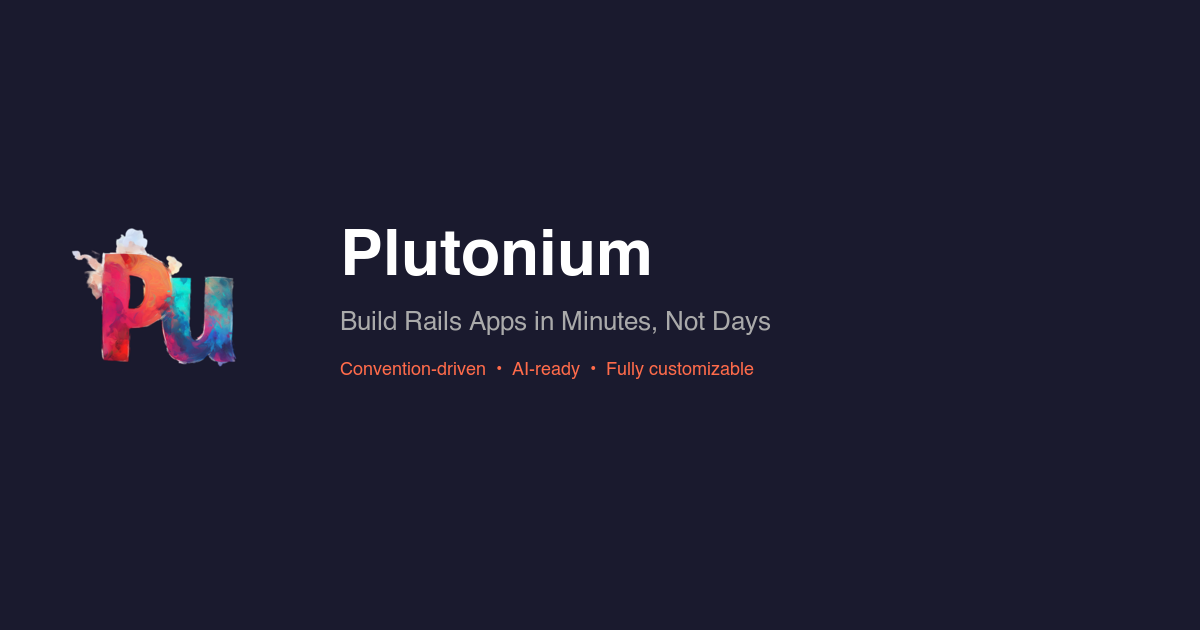
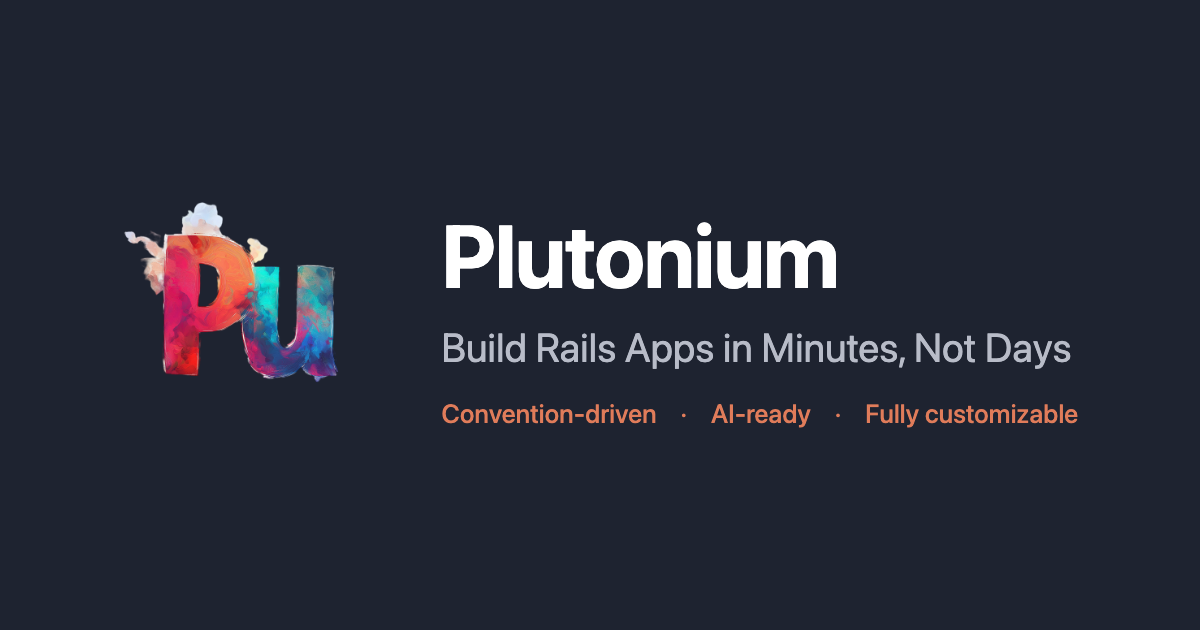
chore: update og image

diff --git a/docs/og-image.html b/docs/og-image.html
@@ -1,0 +1,84 @@
+<!DOCTYPE html>
+<html>
+<head>
+  <meta charset="UTF-8">
+  <style>
+    * {
+      margin: 0;
+      padding: 0;
+      box-sizing: border-box;
+    }
+
+    body {
+      width: 1200px;
+      height: 630px;
+      background: #1e2330;
+      display: flex;
+      align-items: center;
+      justify-content: center;
+      font-family: -apple-system, BlinkMacSystemFont, 'Segoe UI', Roboto, 'Helvetica Neue', Arial, sans-serif;
+    }
+
+    .container {
+      display: flex;
+      flex-direction: row;
+      align-items: center;
+      gap: 60px;
+    }
+
+    .logo {
+      width: 260px;
+      height: 260px;
+      object-fit: contain;
+    }
+
+    .content {
+      display: flex;
+      flex-direction: column;
+      gap: 16px;
+    }
+
+    .title {
+      font-size: 88px;
+      font-weight: 700;
+      color: #ffffff;
+      letter-spacing: -1px;
+    }
+
+    .tagline {
+      font-size: 40px;
+      color: #b8bcc8;
+      font-weight: 400;
+    }
+
+    .features {
+      display: flex;
+      gap: 24px;
+      margin-top: 12px;
+      font-size: 26px;
+      color: #e07c5a;
+      font-weight: 500;
+    }
+
+    .features span:not(:last-child)::after {
+      content: '·';
+      margin-left: 24px;
+      color: #e07c5a;
+    }
+  </style>
+</head>
+<body>
+  <div class="container">
+    <img src="public/plutonium.png" alt="Plutonium" class="logo">
+    <div class="content">
+      <div class="title">Plutonium</div>
+      <div class="tagline">Build Rails Apps in Minutes, Not Days</div>
+      <div class="features">
+        <span>Convention-driven</span>
+        <span>AI-ready</span>
+        <span>Fully customizable</span>
+      </div>
+    </div>
+  </div>
+</body>
+</html>
